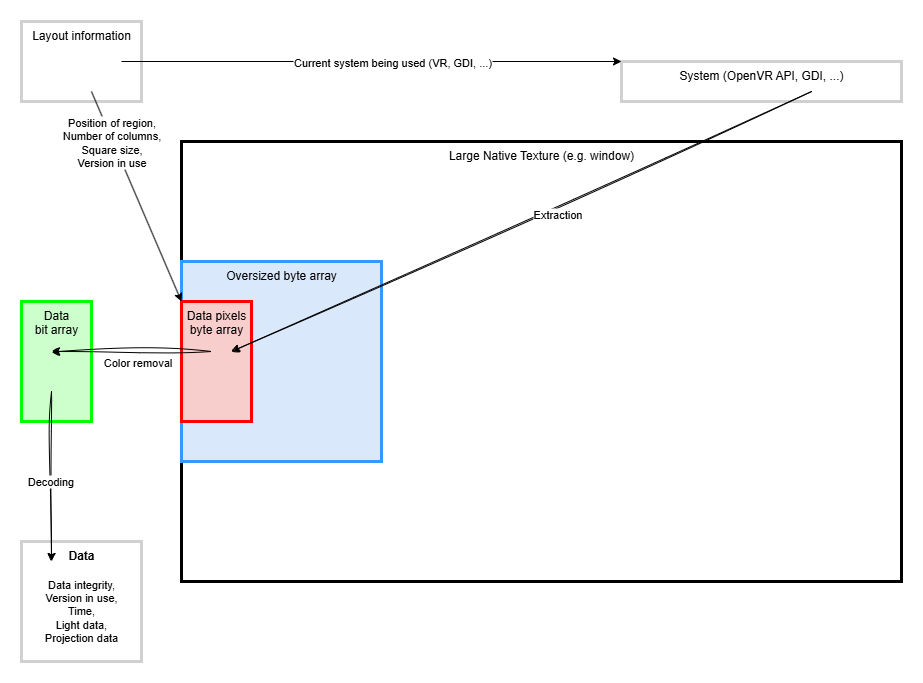
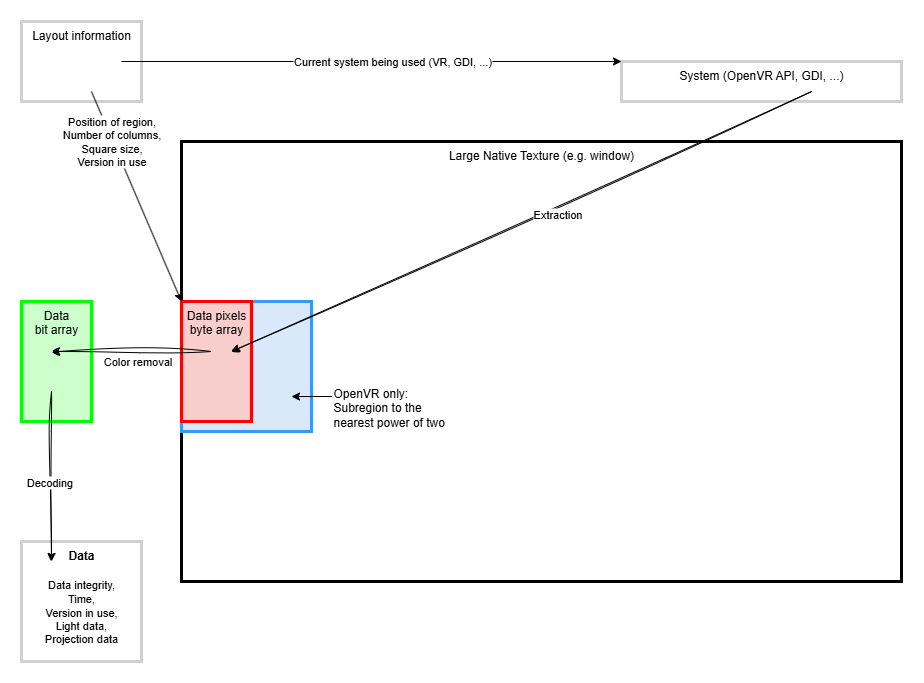
Update illustration: - Describe square texture used in OpenVR subregion. - Rename line to group.

diff --git a/README.md b/README.md
@@ -40,7 +40,7 @@ On the program side, we check for a value above 110 (43%), but this may need to 
 
 Adding new lines at the end is considered to be a breaking change, because the checksum changes. 
 
-| Line   | Description                                                                                                                                                       |
+| Group  | Description                                                                                                                                                       |
 |--------|-------------------------------------------------------------------------------------------------------------------------------------------------------------------|
 | **0**  | Checksum. See [checksum](#checksum) section below.                                                                                                                |
 | **1**  | Time since level load, as given by `_Time.y`. Intended to let the decoder know when the data has changed<br>(i.e. for interpolation, or to detect data stalling). |
